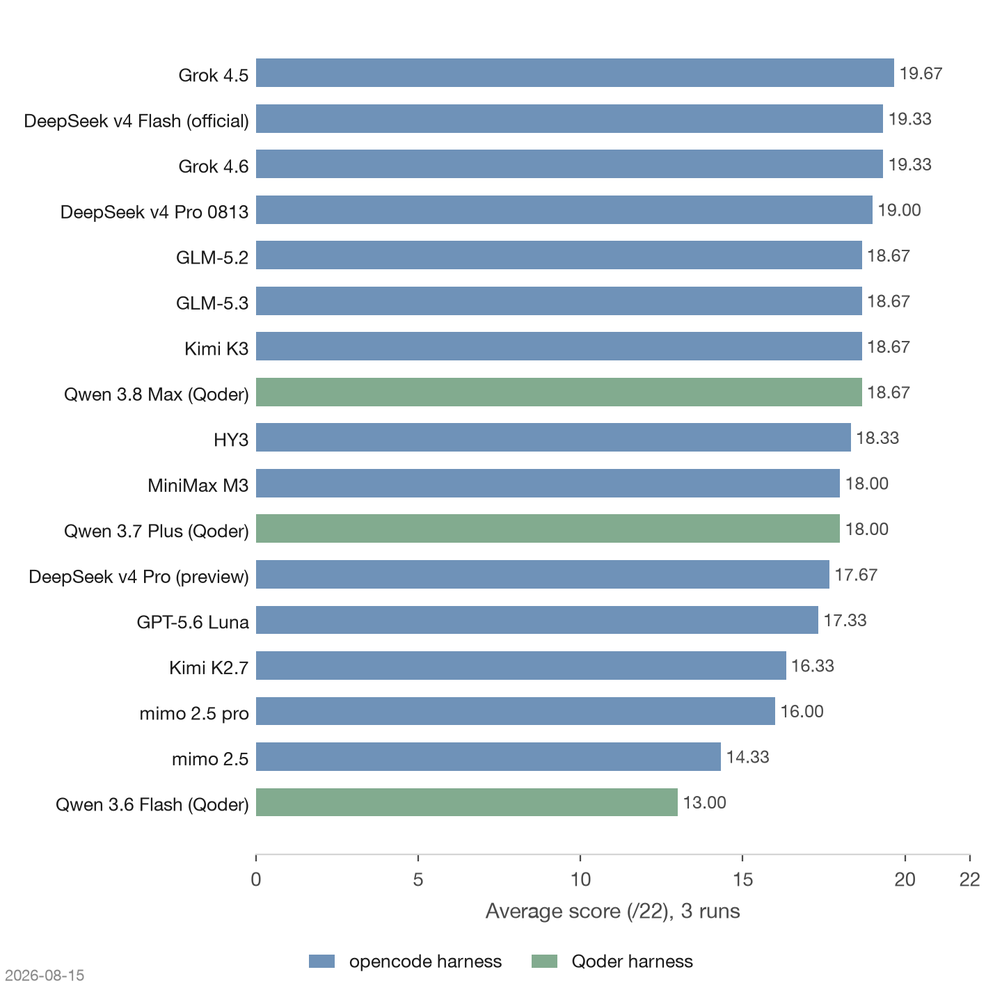
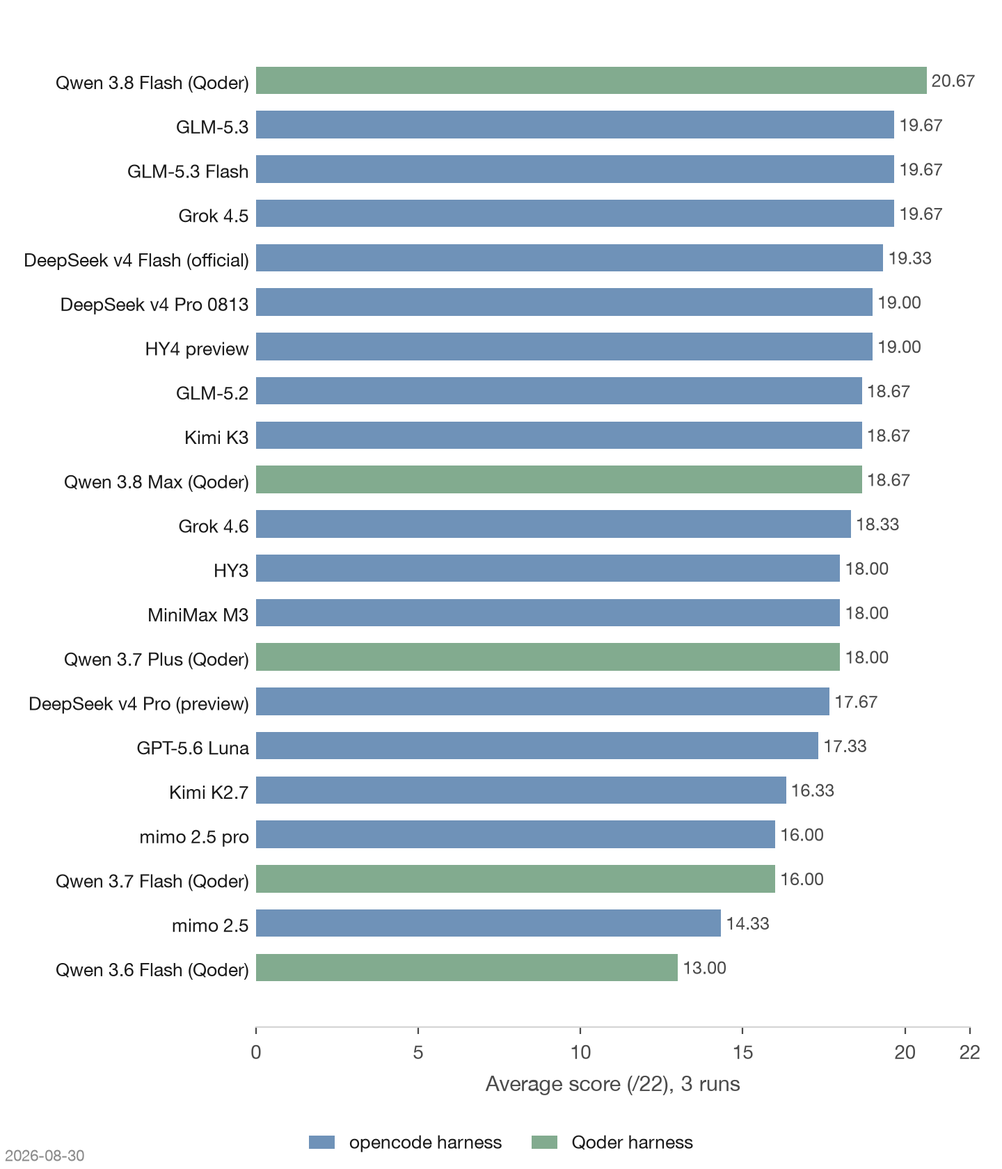
Add blog post: LiveCuratorBench 2026-08-30 release (Qwen 3.8 Flash, GLM-5.3 Flash); correct Grok 4.6 and HY3 scores

diff --git a/blog/live-curator-benchmark-2026-08-30.html b/blog/live-curator-benchmark-2026-08-30.html
@@ -1,0 +1,163 @@
+<!DOCTYPE html>
+<html lang="en">
+<head>
+<meta charset="UTF-8">
+<meta name="viewport" content="width=device-width, initial-scale=1.0">
+<title>LiveCuratorBench 2026-08-30 Release: Qwen 3.8 Flash and GLM-5.3 Flash — Blog of Siqi Du (杜思齐)</title>
+<meta name="description" content="Two new Flash-tier models top their harnesses on LiveCuratorBench: Qwen 3.8 Flash scores 20.67/22 on the Qoder harness, the highest score recorded on the benchmark and the only Qoder model past 19, while GLM-5.3 Flash scores 19.67/22 on the opencode harness, the first model there to hold the input-pollution probe in all three runs. A control retest attributes the GLM gain to the model rather than the harness upgrade, and a rubric-calibration audit corrects two published scores (Grok 4.6 to 18.33, HY3 to 18.00).">
+<link rel="canonical" href="https://fourier7754.github.io/siqi_du/blog/live-curator-benchmark-2026-08-30.html">
+<meta property="og:type" content="article">
+<meta property="og:site_name" content="Siqi Du">
+<meta property="og:title" content="LiveCuratorBench 2026-08-30 Release: Qwen 3.8 Flash and GLM-5.3 Flash — Blog of Siqi Du (杜思齐)">
+<meta property="og:description" content="Two new Flash-tier models top their harnesses on LiveCuratorBench: Qwen 3.8 Flash scores 20.67/22 on the Qoder harness, the highest score recorded on the benchmark and the only Qoder model past 19, while GLM-5.3 Flash scores 19.67/22 on the opencode harness, the first model there to hold the input-pollution probe in all three runs. A control retest attributes the GLM gain to the model rather than the harness upgrade, and a rubric-calibration audit corrects two published scores (Grok 4.6 to 18.33, HY3 to 18.00).">
+<meta property="og:url" content="https://fourier7754.github.io/siqi_du/blog/live-curator-benchmark-2026-08-30.html">
+<meta property="og:image" content="https://fourier7754.github.io/siqi_du/images/live-curator-benchmark-qoder-02.png">
+<meta name="twitter:card" content="summary">
+<script type="application/ld+json">
+{
+  "@context": "https://schema.org",
+  "@type": "Article",
+  "headline": "LiveCuratorBench 2026-08-30 Release: Qwen 3.8 Flash and GLM-5.3 Flash",
+  "datePublished": "2026-08-30",
+  "author": {
+    "@type": "Person",
+    "name": "Siqi Du",
+    "url": "https://fourier7754.github.io/siqi_du/"
+  },
+  "keywords": ["Benchmark", "agents", "evaluation", "memory", "meta-knowledge", "qoder"],
+  "url": "https://fourier7754.github.io/siqi_du/blog/live-curator-benchmark-2026-08-30.html"
+}
+</script>
+<meta name="google-site-verification" content="fQZQD0EwLaSOrp3EbALt2rjxHEY9pUvWuh1fS96xgNk">
+<meta name="msvalidate.01" content="56D1B3DBCF345410DA9431AFE01788E7">
+<link rel="icon" href="../images/favicon.ico" sizes="any">
+<link rel="icon" type="image/png" sizes="32x32" href="../images/favicon-32x32.png">
+<link rel="icon" type="image/png" sizes="16x16" href="../images/favicon-16x16.png">
+<link rel="apple-touch-icon" href="../images/apple-touch-icon.png">
+<link rel="manifest" href="../images/site.webmanifest">
+<link rel="preconnect" href="https://fonts.googleapis.com">
+<link rel="preconnect" href="https://fonts.gstatic.com" crossorigin>
+<link href="https://fonts.googleapis.com/css2?family=Inter:wght@400;500;600&family=Space+Grotesk:wght@500;700&display=swap" rel="stylesheet">
+<link rel="stylesheet" href="../assets/css/main.css?v=20260823a">
+<script src="../assets/vendor/highlight.min.js" defer></script>
+<script src="posts.js" defer></script>
+<script src="../assets/js/blog.js" defer></script>
+<script src="../assets/js/main.js" defer></script>
+<script>
+document.addEventListener('DOMContentLoaded', function () {
+  if (window.hljs) hljs.highlightAll();
+});
+</script>
+<script>
+/* GoatCounter 访问量统计：仅线上加载，本地 file:// 预览不计数 */
+if (location.protocol === "https:") {
+  var gc = document.createElement("script");
+  gc.setAttribute("data-goatcounter", "https://fourier7754.goatcounter.com/count");
+  gc.async = true;
+  gc.src = "//gc.zgo.at/count.js";
+  document.head.appendChild(gc);
+}
+</script>
+</head>
+<body>
+
+<header class="masthead">
+  <div class="masthead-inner">
+    <a class="masthead-logo" href="../index.html">Siqi Du</a>
+  </div>
+</header>
+
+<div class="layout">
+
+  <aside class="sidebar blog-sidebar">
+    <img class="sidebar-avatar" src="../images/avatar.jpg" alt="Siqi Du">
+    <div class="blog-side-title"><a href="../index.html">Blog</a></div>
+    <div class="blog-side-nav"></div>
+    <noscript>
+      <div class="blog-side-section">
+        <div class="blog-side-label">Categories</div>
+        <div class="blog-side-cats">
+          <a class="blog-side-cat" href="../index.html"><span>All</span></a>
+          <a class="blog-side-cat" href="../index.html?cat=Benchmark"><span>Benchmark</span></a>
+          <a class="blog-side-cat" href="../index.html?cat=Research"><span>Research</span></a>
+          <a class="blog-side-cat" href="../index.html?cat=Opinion"><span>Opinion</span></a>
+          <a class="blog-side-cat" href="../index.html?cat=Review"><span>Review</span></a>
+        </div>
+      </div>
+    </noscript>
+  </aside>
+
+  <main class="content">
+    <a class="post-back" href="../index.html">← Back to Blog</a>
+    <h1 class="page-title">LiveCuratorBench 2026-08-30 Release: Qwen 3.8 Flash and GLM-5.3 Flash</h1>
+    <div class="post-meta" style="font-size:var(--fs-meta);color:var(--faint);margin-bottom:24px;">2026-08-30</div>
+
+    <div class="post-body">
+      <div class="post-tldr">
+        <div class="post-tldr-label">TL;DR</div>
+        <p>Two new Flash-tier models top their harnesses on LiveCuratorBench: Qwen 3.8 Flash scores 20.67/22 on the Qoder harness, the highest score recorded on the benchmark and the only Qoder model past 19, while GLM-5.3 Flash scores 19.67/22 on the opencode harness, the first model there to hold the input-pollution probe in all three runs. A control retest attributes the GLM gain to the model rather than the harness upgrade, and a rubric-calibration audit corrects two published scores (Grok 4.6 to 18.33, HY3 to 18.00).</p>
+      </div>
+
+      <p>Two Flash-tier models joined <a href="live-curator-benchmark.html">LiveCuratorBench</a> this cycle, one on each harness. Qwen 3.8 Flash ran the <a href="live-curator-benchmark-qoder.html">Qoder CLI harness</a> on August 27; GLM-5.3 Flash ran the opencode harness on August 29, in the same batch as HY4 preview (opencode go). The charts below follow the split comparison rule kept since the Qoder round: one entry per model at its strongest harness, opencode in blue and Qoder in green. The two headline results therefore sit in different colors, and the score gap between them carries the standing caveat—Qoder-side scores are self-contained, so cross-harness reads stay descriptive.</p>
+
+      <p><img src="../images/live-curator-benchmark-qoder-01.png" alt="Bar chart of average scores on LiveCuratorBench with one entry per model at its strongest harness, opencode entries in blue and Qoder entries in green: Qwen 3.8 Flash (Qoder) leads at 20.67; GLM-5.3, GLM-5.3 Flash, and Grok 4.5 tie at 19.67 on the opencode side; DeepSeek v4 Flash (official) follows at 19.33; Grok 4.6 stands at 18.33 after the rubric audit" loading="lazy"></p>
+
+      <p>Each model ran three independent times with vendor-default settings. Qwen 3.8 Flash's cost is metered in Qoder credits—the Qoder backend reports no token counts—converted at the price actually paid for the subscription. GLM-5.3 Flash runs on a subscription channel whose published price is a full-tier rate, so its per-run cost is an upper-bound estimate; HY4 preview's cost is metered from opencode session records. The automated scorer over-credited rubric item B1 in five of the six new opencode runs—line numbers appeared in the return-format strings of extracted entries without becoming "line numbers reduce hallucination" knowledge—and all five were corrected in review. That correction pass is also what surfaced the calibration question taken up at the end of this post.</p>
+
+      <table>
+        <caption>Table 1 · Score, tokens, and cost per run (new rounds, 3 runs per model)</caption>
+        <thead>
+          <tr><th>Model</th><th>R1</th><th>R2</th><th>R3</th><th>Avg</th><th>Range</th><th>Tokens/run</th><th>Cost/run</th></tr>
+        </thead>
+        <tbody>
+          <tr><td>Qwen 3.8 Flash (Qoder)</td><td>20</td><td>21</td><td>21</td><td><strong>20.67</strong></td><td>20–21</td><td>n/a <sup>3</sup></td><td>$0.020 <sup>3</sup></td></tr>
+          <tr><td>GLM-5.3 Flash</td><td>20</td><td>19</td><td>20</td><td><strong>19.67</strong></td><td>19–20</td><td>268.0K</td><td>$0.391 <sup>2</sup></td></tr>
+          <tr><td>HY4 preview (opencode go)</td><td>19</td><td>19</td><td>19</td><td><strong>19.00</strong></td><td>19–19</td><td>231.0K</td><td>$0.201 <sup>1</sup></td></tr>
+        </tbody>
+      </table>
+
+      <p><sup>1</sup> Metered from opencode session logs (main agent + reasoner subagent), HY4 preview via the opencode go channel.</p>
+
+      <p><sup>2</sup> Zhipu coding plan subscription, list-price estimate: ¥2.796 per run is the full-tier rate and therefore an upper bound for the Flash tier, converted at ¥7.15 = $1. Token counts are session-log sums (input + output + reasoning + cache read).</p>
+
+      <p><sup>3</sup> The Qoder backend reports no token counts. Cost is metered in Qoder credits (main agent + reasoner subagent sessions), converted at the price actually paid: ¥159 per 6,000 credits ≈ $0.00371 per credit (¥7.15 = $1).</p>
+
+      <h2>What the results show</h2>
+
+      <p><strong>Qwen 3.8 Flash is the first Qoder model past 19.</strong> Its 20.67 (20/21/21) leads the Qoder field's previous front-runner, Qwen 3.8 Max (18.67), by two points. The edge concentrates in two rubric items. The input-pollution probe (G5)—deriving that model-facing text doubles as few-shot demonstrations, so a contaminated input teaches contamination—came in at full marks in all three runs; the other seven Qoder models, across twenty runs between them, never got past 1 on it. The always-on inline rule (G7) also held at full marks throughout. It additionally took the first B1 points recorded anywhere: 1 in runs two and three for extracting that line-number annotation exists as a practice (run one scored 0 under the scoring line). At 5.27 credits a run, about $0.020, it costs roughly a twelfth of Qwen 3.8 Max's $0.259.</p>
+
+      <p><img src="../images/live-curator-benchmark-qoder-02.png" alt="Scatter plot of cost per run versus score with one point per model at its strongest harness, color encoding harness and marker shape encoding vendor: Qwen 3.8 Flash (Qoder SOTA) sits top left at $0.020 and 20.67; Grok 4.5 and GLM-5.3 Flash carry the opencode SOTA tags at 19.67; DeepSeek v4 Flash (official) keeps the best-value tag" loading="lazy"></p>
+
+      <p><strong>GLM-5.3 Flash brings the input-pollution probe back to the opencode side.</strong> Its 19.67 (20/19/20) includes full marks on G5 in all three runs—each run derived, in its own phrasing, that the rule text itself is a demonstration and a violating system prompt re-teaches the banned behavior every round. The only other opencode model to hold G5 across all three runs is Grok 4.5. Before this cycle the probe had been cleared in just 4 of the first 24 opencode runs, all in round two, which is what made it look like an environment effect; three independent clears from a second model family make it a usable read on model capability. The rest of the scorecard is steady: every run forgoes the B1 pair—line-number knowledge no model has extracted, worth 2—which leaves R1 and R3 perfect at 20, and R2 adds one deduction, a dedup item (Q2), to land at 19.</p>
+
+      <p><strong>The harness upgrade is not the story—the model is.</strong> The opencode stack moved to 1.18.23 between the August 15 round and this batch; the new version even forced a bench-agent fix, since subagent spawns now require a description field. To separate model change from environment change, two controls were rerun on the upgraded stack. DeepSeek v4 Flash (opencode go) reproduced its old baseline exactly—19/19/19, G5 at 1 in every run—so the upgrade alone lifts nothing. GLM-5.3 full, which scored 18.67 with zero G5 clears on August 15, scored 19/20/20 = 19.67 with G5 in all three runs. With the gain appearing in both GLM tiers under a harness that leaves a DeepSeek baseline untouched, the reading is a model-side update (or a recent vendor-side change), not a harness effect. The charts now show GLM-5.3 at its retested 19.67; the original 18.67 stays on the August 15 post's table, which carries an update note.</p>
+
+      <p><strong>Whether Flash beats full depends on the family.</strong> In the Qwen family the Flash tier now leads outright: Qwen 3.8 Flash's 20.67 sits two points above Qwen 3.8 Max's 18.67 on the same harness, and 4.67 above Qwen 3.7 Flash's 16.00—a number that averages that model's two valid runs, after its round two stalled in a retry loop against the stage-validation hook and was discarded under the failure rule. In the GLM family the tiers meet: GLM-5.3 Flash's 19.67 exactly ties the retested GLM-5.3 full. One family's small tier passed its big one; the other's matched it.</p>
+
+      <p><strong>One calibration audit, two corrected scores.</strong> The B1 corrections above prompted a full audit of how the scorer had been applying the rubric, after a suspicion that HY3's first-round score ran high. The ruling: a method-selection framework counts as extracted only when it stands as its own entry—embedded inside a writing-convention entry it scores 1 of 2, not 2. Applied back across published runs, it corrected HY3 from 18.33 to 18.00 and Grok 4.6 from 19.33 to 18.33, which changes the August 15 reading of Grok 4.6 from "the generation swap brought no gain" to "the swap costs 1.33." Every other published score held up: the framework in each remaining top score was already standalone, and the early batches' B1 zeros rechecked clean. The scoring runbook now lists the framework rule alongside the B1 and Q1 checks, and the affected pages have been corrected in place.</p>
+
+      <p>The task definition, rubric, and first thirteen-model results are on the <a href="live-curator-benchmark.html">LiveCuratorBench main page</a>; the six-model Qoder harness round is on the <a href="live-curator-benchmark-qoder.html">Qoder round page</a>; the August 15 opencode releases are on <a href="live-curator-benchmark-2026-08-15.html">their release post</a>.</p>
+    </div>
+
+    <div class="post-end">
+      <div class="post-end-sep"></div>
+      <div class="post-taxonomy">
+        <a class="cat-badge" href="../index.html?cat=Benchmark">Benchmark</a>
+        <a class="tag-chip" href="../index.html?tag=agents">#agents</a>
+        <a class="tag-chip" href="../index.html?tag=evaluation">#evaluation</a>
+        <a class="tag-chip" href="../index.html?tag=memory">#memory</a>
+        <a class="tag-chip" href="../index.html?tag=meta-knowledge">#meta-knowledge</a>
+        <a class="tag-chip" href="../index.html?tag=qoder">#qoder</a>
+      </div>
+    </div>
+
+  </main>
+</div>
+
+<footer class="footer">
+  <span>© 2026 Siqi Du</span>
+  <span>Last updated: Aug 2026</span>
+</footer>
+
+</body>
+</html>

diff --git a/blog/live-curator-benchmark-2026-08-15.html b/blog/live-curator-benchmark-2026-08-15.html
@@ -4,12 +4,12 @@
 <meta charset="UTF-8">
 <meta name="viewport" content="width=device-width, initial-scale=1.0">
 <title>LiveCuratorBench 2026-08-15 Release: GLM-5.3, Grok 4.6, DeepSeek v4 Pro 0813 — Blog of Siqi Du (杜思齐)</title>
-<meta name="description" content="Three new opencode-harness results on LiveCuratorBench: Grok 4.6 scores 19.33/22, tying DeepSeek v4 Flash (official) for second and landing below Grok 4.5's 19.67; DeepSeek v4 Pro's stable 0813 release scores 19.00 with zero run-to-run variance, +1.33 over the preview version tested in July; GLM-5.3 scores 18.67/22, tying GLM-5.2 on the same channel with an identical run profile.">
+<meta name="description" content="Three new opencode-harness results on LiveCuratorBench: Grok 4.6 scores 18.33/22 after a rubric-calibration audit lowered its initial 19.33, leaving it 1.33 below predecessor Grok 4.5; DeepSeek v4 Pro's stable 0813 release scores 19.00 with zero run-to-run variance, +1.33 over the preview version tested in July; GLM-5.3 scores 18.67/22, tying GLM-5.2 on the same channel with an identical run profile.">
 <link rel="canonical" href="https://fourier7754.github.io/siqi_du/blog/live-curator-benchmark-2026-08-15.html">
 <meta property="og:type" content="article">
 <meta property="og:site_name" content="Siqi Du">
 <meta property="og:title" content="LiveCuratorBench 2026-08-15 Release: GLM-5.3, Grok 4.6, DeepSeek v4 Pro 0813 — Blog of Siqi Du">
-<meta property="og:description" content="Three new opencode-harness results on LiveCuratorBench: Grok 4.6 scores 19.33/22, tying DeepSeek v4 Flash (official) for second and landing below Grok 4.5's 19.67; DeepSeek v4 Pro's stable 0813 release scores 19.00 with zero run-to-run variance, +1.33 over the preview version tested in July; GLM-5.3 scores 18.67/22, tying GLM-5.2 on the same channel with an identical run profile.">
+<meta property="og:description" content="Three new opencode-harness results on LiveCuratorBench: Grok 4.6 scores 18.33/22 after a rubric-calibration audit lowered its initial 19.33, leaving it 1.33 below predecessor Grok 4.5; DeepSeek v4 Pro's stable 0813 release scores 19.00 with zero run-to-run variance, +1.33 over the preview version tested in July; GLM-5.3 scores 18.67/22, tying GLM-5.2 on the same channel with an identical run profile.">
 <meta property="og:url" content="https://fourier7754.github.io/siqi_du/blog/live-curator-benchmark-2026-08-15.html">
 <meta property="og:image" content="https://fourier7754.github.io/siqi_du/images/live-curator-benchmark-qoder-02.png">
 <meta name="twitter:card" content="summary">
@@ -95,14 +95,16 @@ if (location.protocol === "https:") {
     <div class="post-body">
       <div class="post-tldr">
         <div class="post-tldr-label">TL;DR</div>
-        <p>Three new opencode-harness results on LiveCuratorBench: Grok 4.6 scores 19.33/22, tying DeepSeek v4 Flash (official) for second and landing below Grok 4.5's 19.67; DeepSeek v4 Pro's stable 0813 release scores 19.00 with zero run-to-run variance, +1.33 over the preview version tested in July; GLM-5.3 scores 18.67/22, tying GLM-5.2 on the same channel with an identical run profile.</p>
+        <p>Three new opencode-harness results on LiveCuratorBench: Grok 4.6 scores 18.33/22 after a rubric-calibration audit lowered its initial 19.33, leaving it 1.33 below predecessor Grok 4.5; DeepSeek v4 Pro's stable 0813 release scores 19.00 with zero run-to-run variance, +1.33 over the preview version tested in July; GLM-5.3 scores 18.67/22, tying GLM-5.2 on the same channel with an identical run profile.</p>
       </div>
 
       <p>Three models joined <a href="live-curator-benchmark.html">LiveCuratorBench</a> on the opencode harness, same bench variant and 22-point rubric as the first two rounds: Grok 4.6 (xAI official endpoint), GLM-5.3 (Zhipu coding plan), and DeepSeek v4 Pro 0813 (DeepSeek official endpoint). The last one is the stable release—shipped 2026-08-13 under an unchanged API model ID—of the model whose preview version was tested on July 31, so the two versions are charted as separate entries. The charts below follow the comparison rule introduced with the <a href="live-curator-benchmark-qoder.html">Qoder harness round</a>: one entry per model, its strongest harness result—so each new model adds exactly one bar and one point. None of the three has a Qoder run yet, so the harness-pairing chart on the Qoder round page is unchanged.</p>
 
-      <p><img src="../images/live-curator-benchmark-qoder-01.png" alt="Bar chart of average scores on LiveCuratorBench with one entry per model at its strongest harness: Grok 4.5 (opencode) leads at 19.67; Grok 4.6 ties DeepSeek v4 Flash (official) at 19.33; DeepSeek v4 Pro 0813 follows at 19.00; GLM-5.3 joins a four-way tie at 18.67" loading="lazy"></p>
+      <p><em>Update (2026-08-30):</em> a rubric-calibration audit lowered Grok 4.6 to 18.33 from the initially reported 19.33 and HY3 (first round, main page) to 18.00 from 18.33—the table and analysis below show the corrected values—and a control retest raised GLM-5.3 to 19.67 on the upgraded harness, which is what the charts now show for it. Both changes are covered in the <a href="live-curator-benchmark-2026-08-30.html">2026-08-30 release notes</a>.</p>
 
-      <p><img src="../images/live-curator-benchmark-qoder-02.png" alt="Scatter plot of cost per run versus score with one point per model at its strongest harness, color encoding harness and marker shape encoding vendor: DeepSeek v4 Pro 0813 sits upper-middle at $0.069 and 19.00; Grok 4.6 sits at top right near Kimi K3's cost; Grok 4.5 keeps the SOTA tag; DeepSeek v4 Flash (official) keeps the best-value tag" loading="lazy"></p>
+      <p><img src="../images/live-curator-benchmark-qoder-01.png" alt="Bar chart of average scores on LiveCuratorBench with one entry per model at its strongest harness: Qwen 3.8 Flash (Qoder) leads at 20.67; GLM-5.3, GLM-5.3 Flash, and Grok 4.5 tie at 19.67; DeepSeek v4 Flash (official) follows at 19.33; Grok 4.6 stands at 18.33 after the 2026-08-30 rubric audit" loading="lazy"></p>
+
+      <p><img src="../images/live-curator-benchmark-qoder-02.png" alt="Scatter plot of cost per run versus score with one point per model at its strongest harness, color encoding harness and marker shape encoding vendor: Qwen 3.8 Flash (Qoder SOTA) sits top left at $0.020 and 20.67; Grok 4.5 and GLM-5.3 Flash carry the opencode SOTA tags at 19.67; DeepSeek v4 Flash (official) keeps the best-value tag; Grok 4.6 sits mid-right at $0.469 and 18.33" loading="lazy"></p>
 
       <p>Each model ran three independent times with vendor-default settings. Grok 4.6's and DeepSeek v4 Pro 0813's costs are metered from opencode session records; GLM-5.3 runs on a subscription channel, so its cost is a list-price estimate. The automated scorer over-credited rubric item B1 in seven of the nine new runs—line numbers appeared in scan-output formatting without becoming "line numbers reduce hallucination" knowledge—and missed one Q1 item; all corrections were made in manual review and annotated in the score files.</p>
 
@@ -112,7 +114,7 @@ if (location.protocol === "https:") {
           <tr><th>Model</th><th>R1</th><th>R2</th><th>R3</th><th>Avg</th><th>Range</th><th>Tokens/run</th><th>Cost/run</th></tr>
         </thead>
         <tbody>
-          <tr><td>Grok 4.6</td><td>19</td><td>20</td><td>19</td><td><strong>19.33</strong></td><td>19–20</td><td>205.3K</td><td>$0.469 <sup>1</sup></td></tr>
+          <tr><td>Grok 4.6</td><td>18</td><td>19</td><td>18</td><td><strong>18.33</strong></td><td>18–19</td><td>205.3K</td><td>$0.469 <sup>1</sup></td></tr>
           <tr><td>DeepSeek v4 Pro 0813</td><td>19</td><td>19</td><td>19</td><td><strong>19.00</strong></td><td>19–19</td><td>242.0K</td><td>$0.069 <sup>1</sup></td></tr>
           <tr><td>GLM-5.3</td><td>18</td><td>19</td><td>19</td><td><strong>18.67</strong></td><td>18–19</td><td>182.5K</td><td>$0.189 <sup>2</sup></td></tr>
         </tbody>
@@ -126,7 +128,7 @@ if (location.protocol === "https:") {
 
       <p><strong>DeepSeek v4 Pro 0813 is the round's real mover.</strong> The stable release scores 19.00 with an identical 19 in all three runs, +1.33 over the preview version measured on July 31 (17/19/17). The gain concentrates in three rubric items that moved from 1 to 2 points—the method-selection framework (G3), the user-message anchor as a standalone entry (G6), and the always-on inline rule (G7)—and it hit the input-pollution probe (G5) in one of three runs, where the preview never scored. The B1 probe stayed at 0. Its reasoning budget rose to 34.4K tokens per run, 2.5× the preview's, while output length stayed flat and total tokens grew only 7%—the improvement came from thinking longer, not writing more.</p>
 
-      <p><strong>Grok 4.6 does not move the ceiling.</strong> At 19.33 it ties DeepSeek v4 Flash (official) for second place, 0.34 below Grok 4.5's 19.67. The gap concentrates in R3 (19 vs 20): that run failed to keep the user-message anchor as a standalone knowledge entry (G6, 1 of 2 points)—an item Grok 4.5 held at full marks in all three of its runs. A generation swap on the same harness and the same task: no gain. At $0.469 per run it is also near the top of the opencode cost range, second only to Kimi K3 ($0.480).</p>
+      <p><strong>Grok 4.6 drops below its predecessor.</strong> A 2026-08-30 rubric-calibration audit corrected all three of its runs by one point, moving Grok 4.6 from the initially reported 19.33 to 18.33—now 1.33 below Grok 4.5's 19.67. A generation swap on the same harness and the same task that loses ground. The audit's finding: in every run, Grok 4.6 embedded the method-selection framework inside a writing-convention entry instead of giving it its own entry (G3, 1 of 2 points—only a standalone framework scores 2), while Grok 4.5 kept the framework standalone in all three of its runs; the user-message anchor (G6) was also not standalone in R1 and R3. At $0.469 per run it remains near the top of the opencode cost range, second only to Kimi K3 ($0.480).</p>
 
       <p><strong>GLM-5.3 is a lateral move.</strong> Its 18.67 ties GLM-5.2 on the same channel, with an identical run profile (18/19/19 on both), landing in the four-way first-tier cluster with GLM-5.2, Kimi K3, and Qwen 3.8 Max (Qoder). Whatever changed between GLM generations did not show up on this task.</p>
 

diff --git a/blog/live-curator-benchmark-qoder.html b/blog/live-curator-benchmark-qoder.html
@@ -100,7 +100,7 @@ if (location.protocol === "https:") {
 
       <p>I reran <a href="live-curator-benchmark.html">LiveCuratorBench</a> on a second harness. The first thirteen-model round ran the Curator agent on my opencode fork; this round ports the same agent—main loop, reasoner subagent, stage/review/commit tool layer—to Qoder CLI CN (<code>qoderclicn</code> 1.1.17), running headless. The task, the source document, the 22-point rubric, and the scoring are unchanged; the harness underneath is not. The charts below keep one entry per model—its stronger harness result—opencode in blue, Qoder in green; a third chart pairs the four models that ran on both harnesses, so the same model's shift is visible directly. These shifts are descriptive, not a controlled experiment: the two harnesses differ in tool layer, permission model, and default parameters, and each cell is three runs.</p>
 
-      <p><img src="../images/live-curator-benchmark-qoder-01.png" alt="Bar chart of average scores on LiveCuratorBench with one entry per model at its stronger harness, opencode entries in blue and Qoder entries in green: Grok 4.5 (opencode) leads overall at 19.67; Qwen 3.8 Max's Qoder run ties GLM-5.2 and Kimi K3 at 18.67; Qwen 3.7 Plus appears only with its Qoder result, 18.00" loading="lazy"></p>
+      <p><img src="../images/live-curator-benchmark-qoder-01.png" alt="Bar chart of average scores on LiveCuratorBench with one entry per model at its stronger harness, opencode entries in blue and Qoder entries in green: Qwen 3.8 Flash (Qoder) leads at 20.67; GLM-5.3, GLM-5.3 Flash, and Grok 4.5 tie at 19.67; Qwen 3.8 Max's Qoder run sits in the 18.67 cluster; Qwen 3.7 Plus appears only with its Qoder result, 18.00" loading="lazy"></p>
 
       <p>Each model ran three independent times per harness with vendor-default settings. Two measurement caveats. First, the Qoder backend does not report token counts at all—every usage field in the session logs reads zero—so Qoder-side costs are metered in Qoder credits, the platform's billing unit, converted at the price I actually paid for the subscription.<sup>1</sup> Second, the two harnesses therefore meter cost differently (tokens on opencode, credits on Qoder): cross-harness cost reads are directional, not exact. The four models that ran on both harnesses are paired in a dedicated scatter further below.<sup>2</sup></p>
 
@@ -123,7 +123,7 @@ if (location.protocol === "https:") {
 
       <p><sup>2</sup> Pairing notes: the Qoder DeepSeek v4 Flash point pairs with the official opencode endpoint (the opencode go channel scored 19.00). Kimi K2.7 Code is the K2.7 variant served on Qoder's coding channel; the opencode round ran K2.7 via the kimi-for-coding plan.</p>
 
-      <p><img src="../images/live-curator-benchmark-qoder-02.png" alt="Scatter plot of cost per run versus score with one point per model at its stronger harness, color encoding harness and marker shape encoding vendor: DeepSeek v4 Flash (official) sits top left as the best value; Qwen 3.8 Max (Qoder) sits top right as the Qoder round's SOTA" loading="lazy"></p>
+      <p><img src="../images/live-curator-benchmark-qoder-02.png" alt="Scatter plot of cost per run versus score with one point per model at its stronger harness, color encoding harness and marker shape encoding vendor: Qwen 3.8 Flash (Qoder SOTA) sits top left at $0.020 and 20.67; DeepSeek v4 Flash (official) carries the best-value tag below it; Grok 4.5 and GLM-5.3 Flash carry the opencode SOTA tags at 19.67" loading="lazy"></p>
 
       <h2>What the results show</h2>
 

diff --git a/blog/live-curator-benchmark.html b/blog/live-curator-benchmark.html
@@ -136,7 +136,7 @@ if (location.protocol === "https:") {
 
       <p>Thirteen models completed three runs each in two batches on 2026-07-31 and 2026-08-01: eight over official or subscription channels, five over the opencode go channel. Scores are averages out of 22.</p>
 
-      <p><img src="../images/live-curator-benchmark-02.png" alt="Bar chart of average scores, sorted: Grok 4.5 19.67, DeepSeek v4 Flash (official) 19.33, DeepSeek v4 Flash (opencode go) 19.00, GLM-5.2 18.67, Kimi K3 18.67, HY3 18.33, MiniMax M3 18.00, DeepSeek v4 Pro 17.67, GPT-5.6 Luna 17.33, Kimi K2.7 16.33, mimo 2.5 pro 16.00, Qwen 3.7 Plus 15.33, mimo 2.5 14.33" loading="lazy"></p>
+      <p><img src="../images/live-curator-benchmark-02.png" alt="Bar chart of average scores, sorted: Grok 4.5 19.67, DeepSeek v4 Flash (official) 19.33, DeepSeek v4 Flash (opencode go) 19.00, GLM-5.2 18.67, Kimi K3 18.67, HY3 18.00, MiniMax M3 18.00, DeepSeek v4 Pro 17.67, GPT-5.6 Luna 17.33, Kimi K2.7 16.33, mimo 2.5 pro 16.00, Qwen 3.7 Plus 15.33, mimo 2.5 14.33" loading="lazy"></p>
 
       <p><img src="../images/live-curator-benchmark-03.png" alt="Scatter plot of average cost per run (log scale, dollar ticks) versus average score with a faint dashed fit curve: every point is labeled with its model name, vendor encoded by color and marker shape; Grok 4.5 carries a SOTA tag at top right, DeepSeek v4 Flash (official) carries a best-value tag at top left" loading="lazy"></p>
 
@@ -150,7 +150,7 @@ if (location.protocol === "https:") {
         <tr><td>DeepSeek v4 Flash (opencode go)</td><td><strong>19.00</strong></td><td>396.9K</td><td>$0.035 ¹</td></tr>
         <tr><td>GLM-5.2</td><td><strong>18.67</strong></td><td>196.1K</td><td>≈$0.24 ²</td></tr>
         <tr><td>Kimi K3</td><td><strong>18.67</strong></td><td>154.0K</td><td>≈$0.48 ²</td></tr>
-        <tr><td>HY3</td><td><strong>18.33</strong></td><td>195.5K</td><td>$0.041 ¹</td></tr>
+        <tr><td>HY3</td><td><strong>18.00</strong></td><td>195.5K</td><td>$0.041 ¹</td></tr>
         <tr><td>MiniMax M3</td><td><strong>18.00</strong></td><td>216.7K</td><td>$0.087 ¹</td></tr>
         <tr><td>DeepSeek v4 Pro</td><td>17.67</td><td>225.9K</td><td>$0.051 ¹</td></tr>
         <tr><td>GPT-5.6 Luna</td><td>17.33</td><td>285.2K</td><td>$0.034 ¹</td></tr>
@@ -199,6 +199,8 @@ if (location.protocol === "https:") {
       <h2>Appendix: measurement details</h2>
 
       <p>Cost. ¹ Metered billing, taken from actual opencode session charges. ² Subscription channels have no per-run billing, so cost is estimated from official list prices in CNY (input / cache-hit / output rates), converted at ¥7.15 = $1; estimates exist only for cross-table comparison.</p>
+
+      <p>Corrections. A 2026-08-30 rubric-calibration audit revised HY3's score to 18.00 from the originally reported 18.33: a method-selection framework embedded inside another entry scores 1 of 2 points rather than 2, and HY3's second run embedded one. Details in the <a href="live-curator-benchmark-2026-08-30.html">2026-08-30 release notes</a>.</p>
 
       <p>Tokens. Token counts come from local opencode session storage and sum the main-agent and subagent sessions: input + output + reasoning + cache read (cache writes were zero throughout). HY3's third round failed on first attempt (about 156K tokens, $0.042, not counted) and succeeded on retry.</p>
 

diff --git a/index.html b/index.html
@@ -81,9 +81,14 @@ if (location.protocol === "https:") {
     <noscript>
       <ul class="post-list">
         <li>
+          <a class="post-title" href="blog/live-curator-benchmark-2026-08-30.html">LiveCuratorBench 2026-08-30 Release: Qwen 3.8 Flash and GLM-5.3 Flash</a>
+          <div class="post-meta">2026-08-30 · Benchmark</div>
+          <div class="post-excerpt">Two new Flash-tier models top their harnesses on LiveCuratorBench: Qwen 3.8 Flash scores 20.67/22 on the Qoder harness, the highest score recorded on the benchmark and the only Qoder model past 19, while GLM-5.3 Flash scores 19.67/22 on the opencode harness, the first model there to hold the input-pollution probe in all three runs. A control retest attributes the GLM gain to the model rather than the harness upgrade, and a rubric-calibration audit corrects two published scores (Grok 4.6 to 18.33, HY3 to 18.00).</div>
+        </li>
+        <li>
           <a class="post-title" href="blog/live-curator-benchmark-2026-08-15.html">LiveCuratorBench 2026-08-15 Release: GLM-5.3, Grok 4.6, DeepSeek v4 Pro 0813</a>
           <div class="post-meta">2026-08-15 · Benchmark</div>
-          <div class="post-excerpt">Three new opencode-harness results on LiveCuratorBench: Grok 4.6 scores 19.33/22, tying DeepSeek v4 Flash (official) for second and landing below Grok 4.5's 19.67; DeepSeek v4 Pro's stable 0813 release scores 19.00 with zero run-to-run variance, +1.33 over the preview version tested in July; GLM-5.3 scores 18.67/22, tying GLM-5.2 on the same channel with an identical run profile.</div>
+          <div class="post-excerpt">Three new opencode-harness results on LiveCuratorBench: Grok 4.6 scores 18.33/22 after a rubric-calibration audit lowered its initial 19.33, leaving it 1.33 below predecessor Grok 4.5; DeepSeek v4 Pro's stable 0813 release scores 19.00 with zero run-to-run variance, +1.33 over the preview version tested in July; GLM-5.3 scores 18.67/22, tying GLM-5.2 on the same channel with an identical run profile.</div>
         </li>
         <li>
           <a class="post-title" href="blog/live-curator-benchmark-qoder.html">LiveCuratorBench on the Qoder Harness: Six More Models</a>

diff --git a/blog/posts.js b/blog/posts.js
@@ -9,10 +9,18 @@
    注意：必须用 .js（window.POSTS）而非 .json，file:// 下浏览器拦截 fetch。 */
 window.POSTS = [
   {
+    slug: "live-curator-benchmark-2026-08-30",
+    title: "LiveCuratorBench 2026-08-30 Release: Qwen 3.8 Flash and GLM-5.3 Flash",
+    date: "2026-08-30",
+    excerpt: "Two new Flash-tier models top their harnesses on LiveCuratorBench: Qwen 3.8 Flash scores 20.67/22 on the Qoder harness, the highest score recorded on the benchmark and the only Qoder model past 19, while GLM-5.3 Flash scores 19.67/22 on the opencode harness, the first model there to hold the input-pollution probe in all three runs. A control retest attributes the GLM gain to the model rather than the harness upgrade, and a rubric-calibration audit corrects two published scores (Grok 4.6 to 18.33, HY3 to 18.00).",
+    category: "Benchmark",
+    tags: ["agents", "evaluation", "memory", "meta-knowledge", "qoder"]
+  },
+  {
     slug: "live-curator-benchmark-2026-08-15",
     title: "LiveCuratorBench 2026-08-15 Release: GLM-5.3, Grok 4.6, DeepSeek v4 Pro 0813",
     date: "2026-08-15",
-    excerpt: "Three new opencode-harness results on LiveCuratorBench: Grok 4.6 scores 19.33/22, tying DeepSeek v4 Flash (official) for second and landing below Grok 4.5's 19.67; DeepSeek v4 Pro's stable 0813 release scores 19.00 with zero run-to-run variance, +1.33 over the preview version tested in July; GLM-5.3 scores 18.67/22, tying GLM-5.2 on the same channel with an identical run profile.",
+    excerpt: "Three new opencode-harness results on LiveCuratorBench: Grok 4.6 scores 18.33/22 after a rubric-calibration audit lowered its initial 19.33, leaving it 1.33 below predecessor Grok 4.5; DeepSeek v4 Pro's stable 0813 release scores 19.00 with zero run-to-run variance, +1.33 over the preview version tested in July; GLM-5.3 scores 18.67/22, tying GLM-5.2 on the same channel with an identical run profile.",
     category: "Benchmark",
     tags: ["agents", "evaluation", "memory", "meta-knowledge"]
   },

diff --git a/blog/qwen-38-max-top-on-qoder.html b/blog/qwen-38-max-top-on-qoder.html
@@ -104,6 +104,8 @@ if (location.protocol === "https:") {
       <p><img src="../images/live-curator-benchmark-qoder-03.png" alt="Scatter plot pairing the four models tested on both harnesses—DeepSeek v4 Flash, GLM-5.2, Qwen 3.7 Plus, and Kimi K2.7—with dotted lines between each model's opencode and Qoder points: Qwen 3.7 Plus gains 2.67 points on Qoder while the other three drift down by about a point or less" loading="lazy"></p>
 
       <p>Methodology, per-model details, and the cost table are on the <a href="live-curator-benchmark-qoder.html">Qoder harness round page</a>; the task itself is introduced on the <a href="live-curator-benchmark.html">LiveCuratorBench main page</a>.</p>
+
+      <p><em>Update (2026-08-30):</em> two more models have joined the Qoder harness since this round ran, and Qwen 3.8 Flash now leads it at 20.67/22—Qwen 3.8 Max's 18.67 stands fourth of eight. See the <a href="live-curator-benchmark-2026-08-30.html">2026-08-30 release notes</a>.</p>
     </div>
 
     <div class="post-end">
